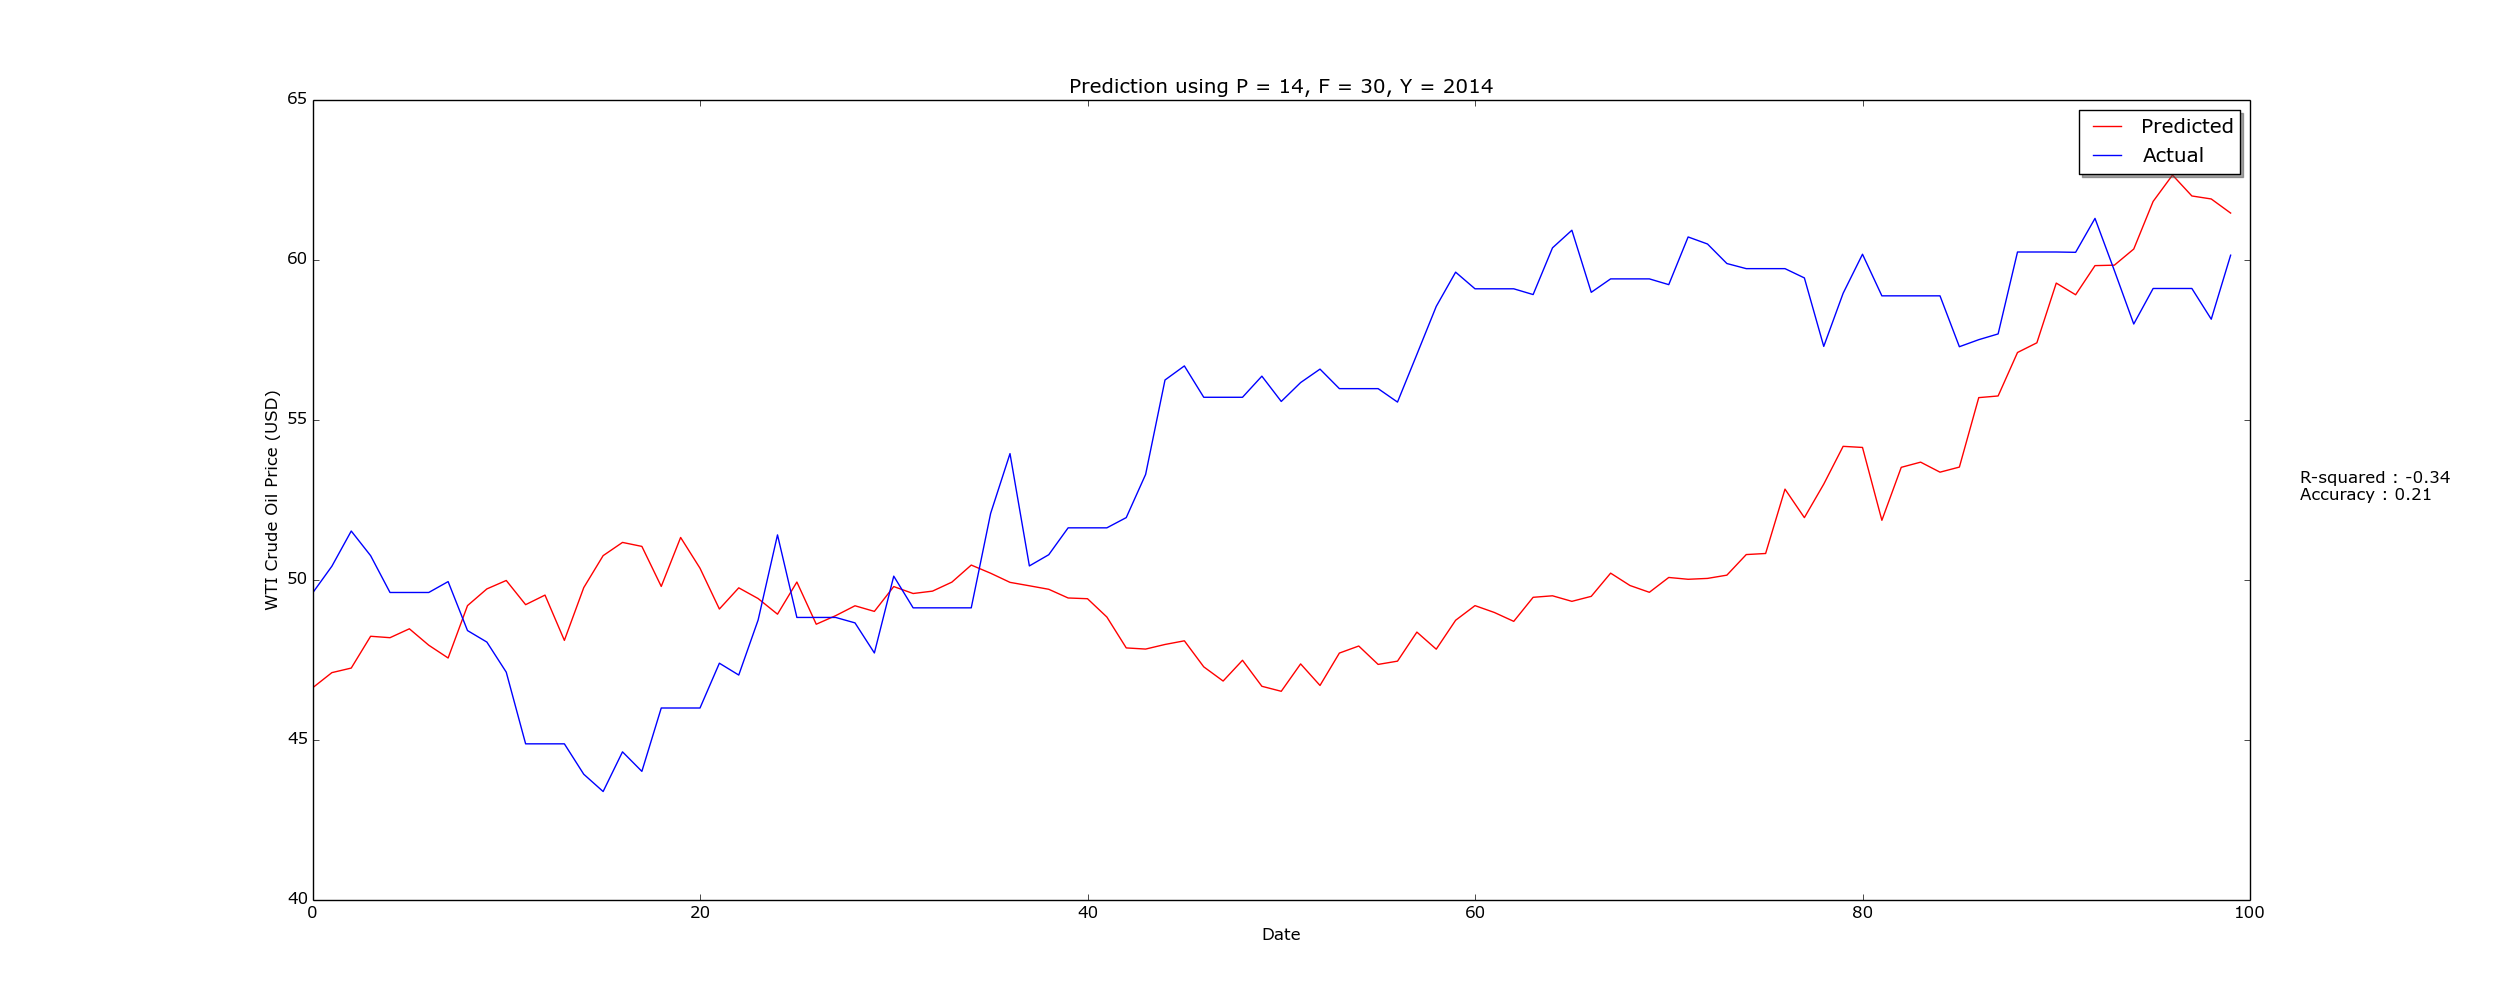
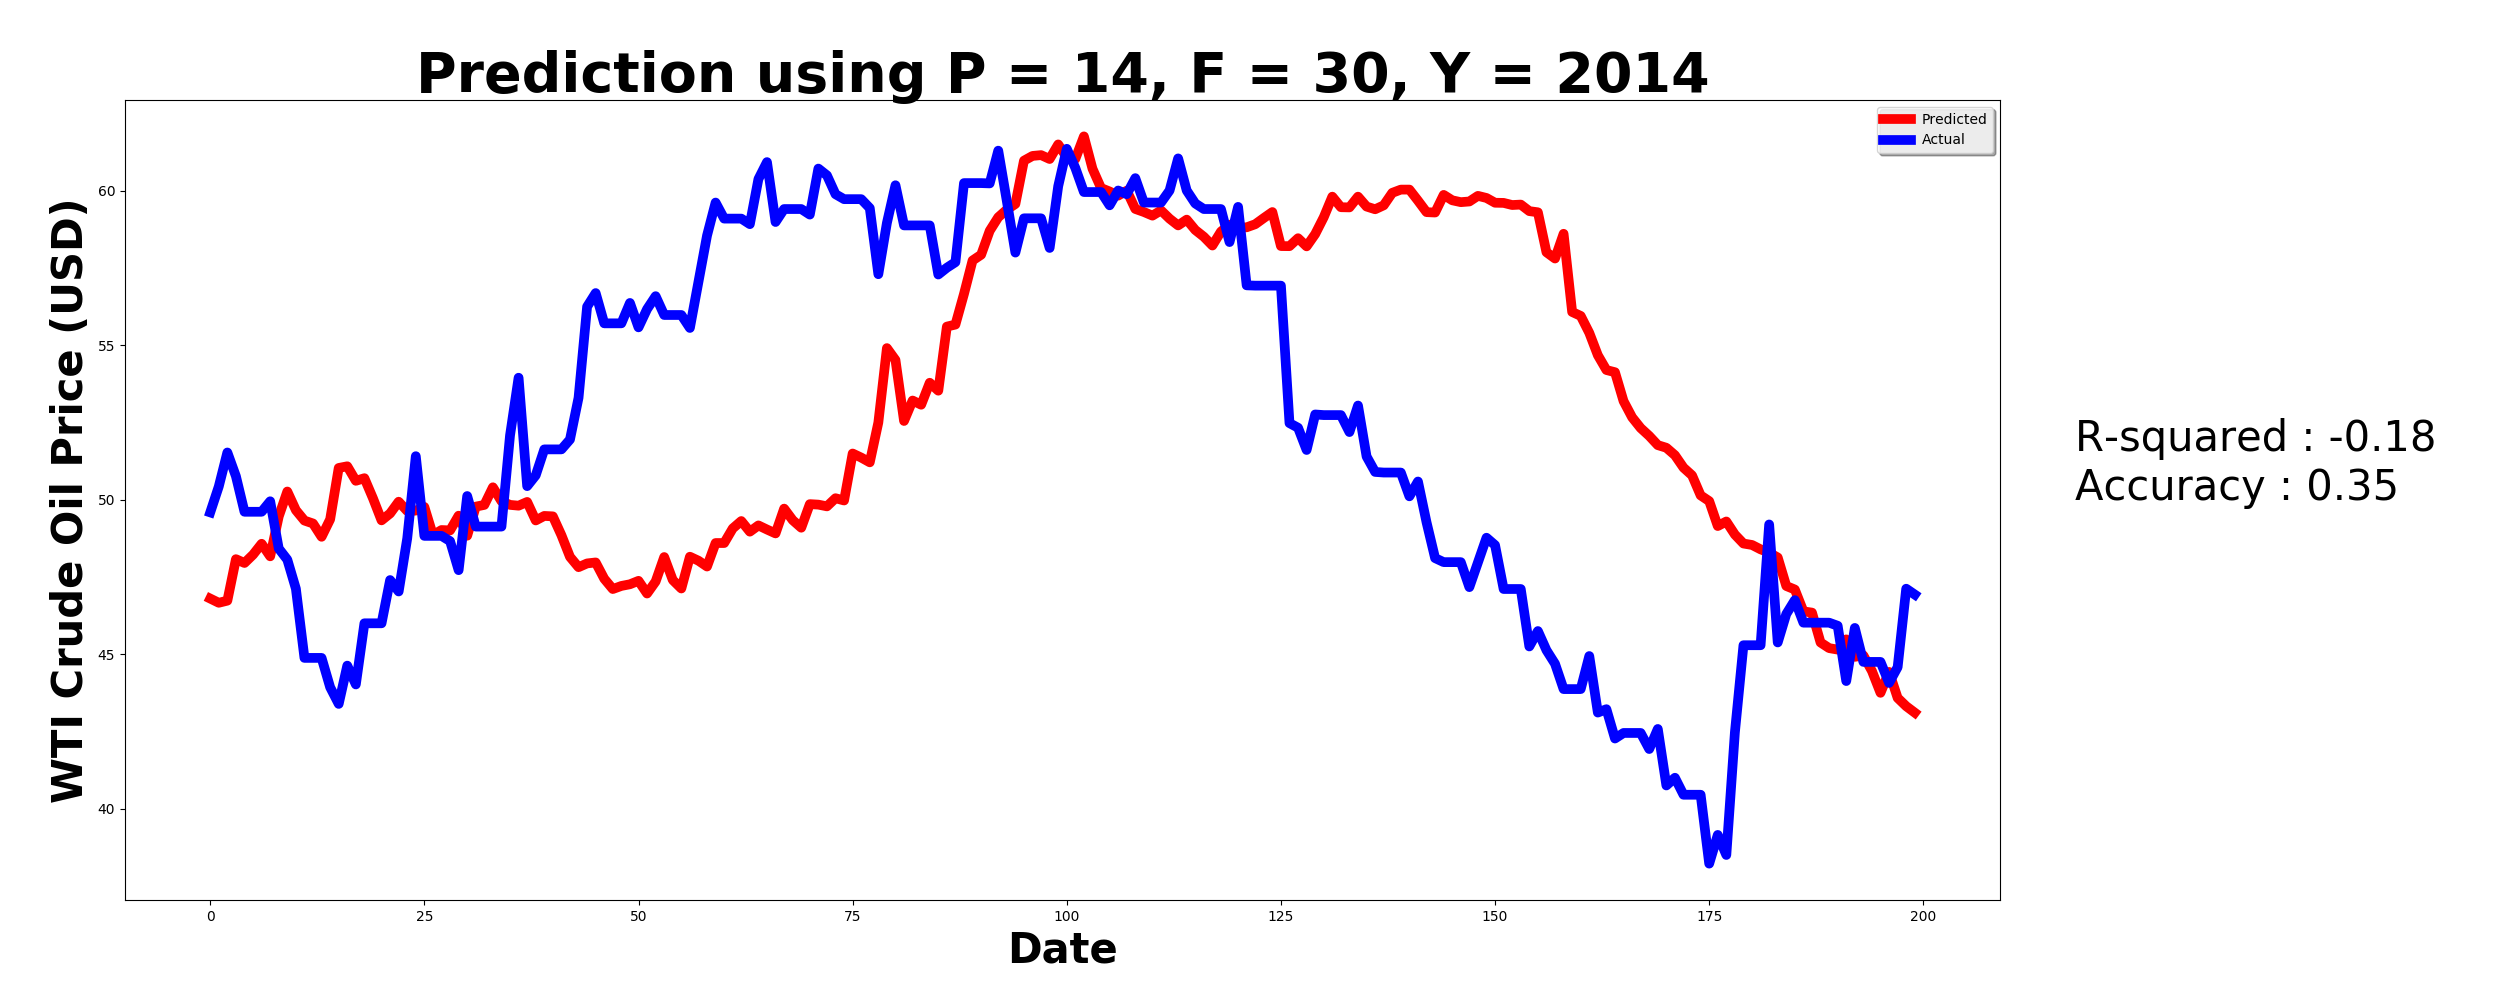
Graphs for p = 14 & years 2013-2015

diff --git a/pythonRandomForest/call_ml.py b/pythonRandomForest/call_ml.py
@@ -8,7 +8,7 @@ from common import date_time_to_str
 from common import get_date_range
 
 ######### DEFINE THE SOLUTION SPACE ############
-MIN_YEAR = 2015
+MIN_YEAR = 2013
 MAX_YEAR = 2017
 ###############################################
 
@@ -27,7 +27,7 @@ def plot_params(params, predicted, actual, r2, acc):
     # pl.show()
 
 def testParams():
-    pValues = [60]        # [5, 7, 14, 30, 60]
+    pValues = [14]        # [5, 7, 14, 30, 60]
     fValues = [90]        # [1, 7, 14, 30, 60, 90]
     numTestPoints = 200
     trainingDays = 365
